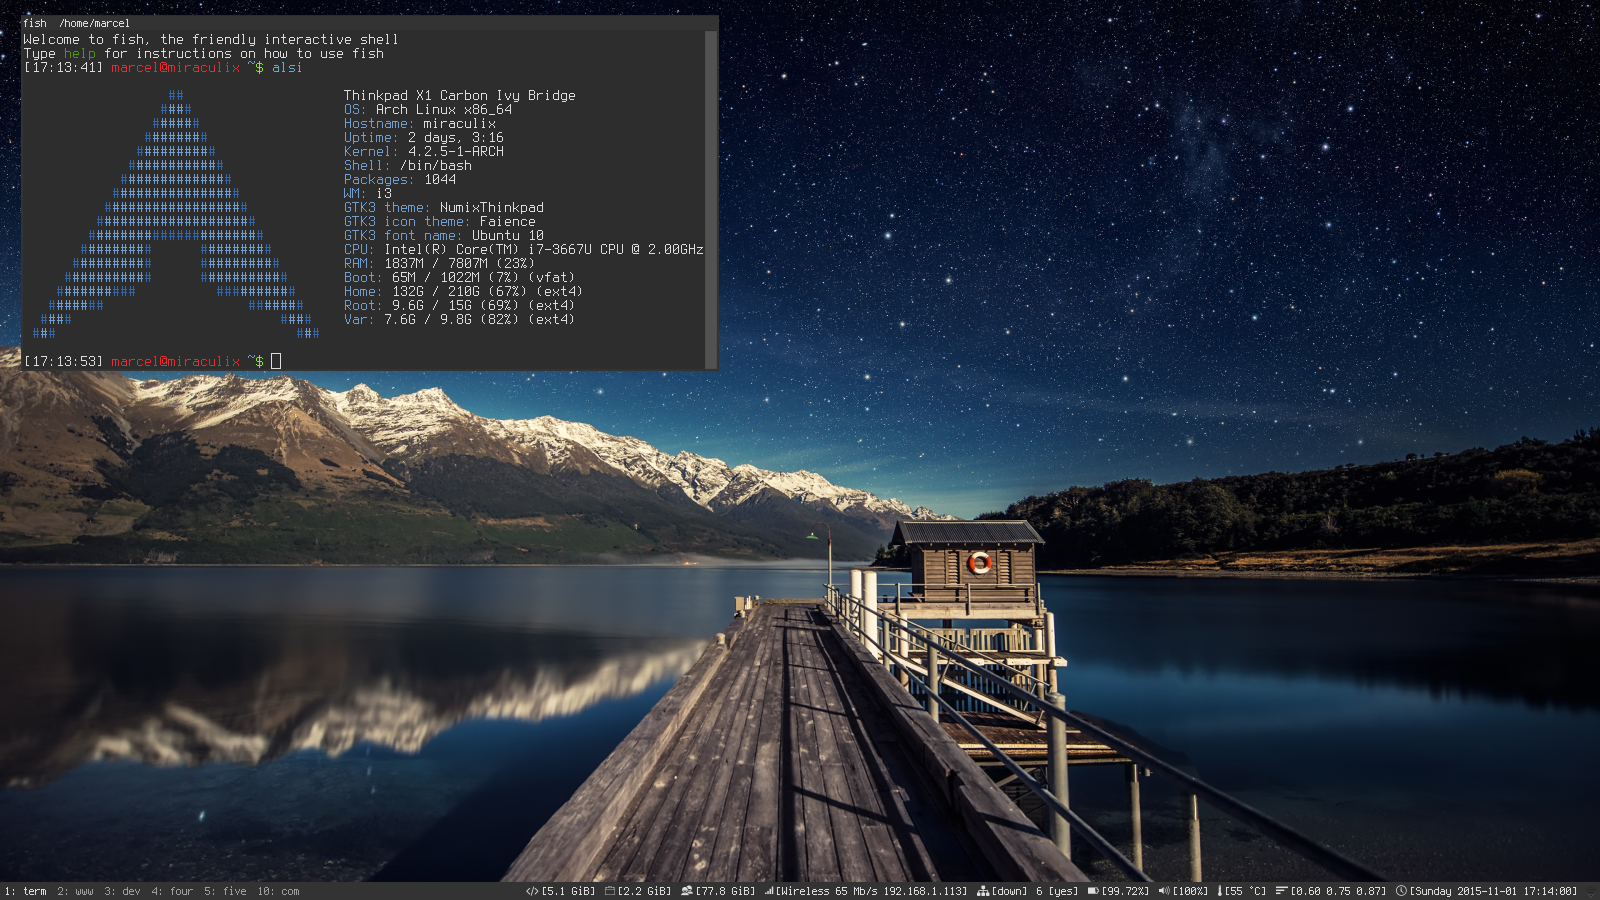
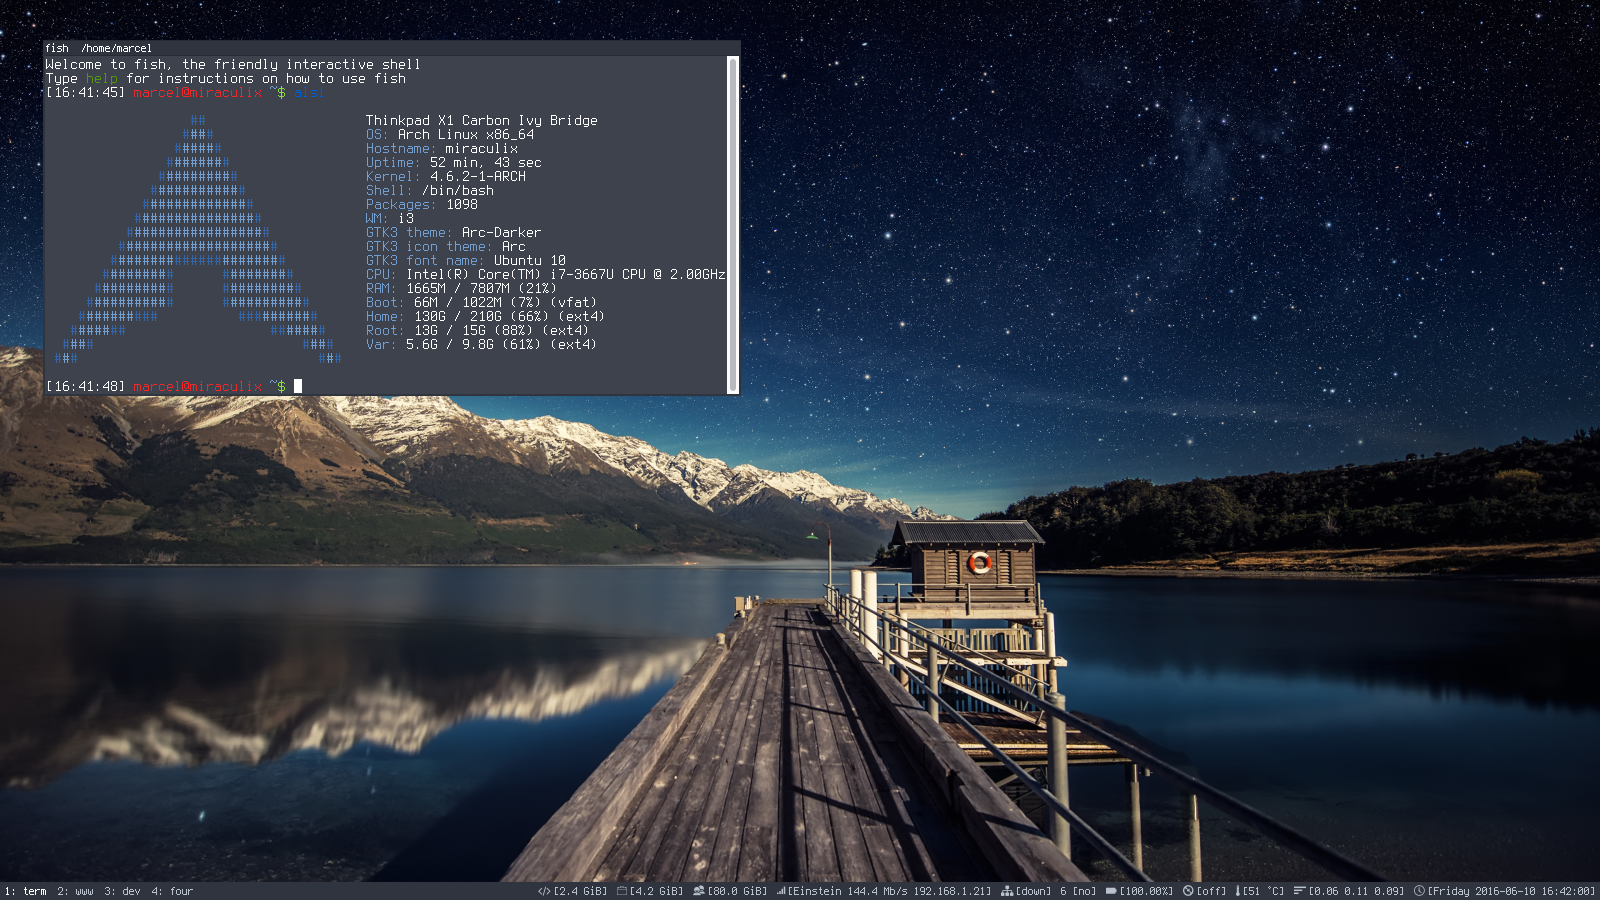
switched from Numix to Arc theme

Changed region(s): [[0.0, 0.0, 0.4688, 0.4667], [0.3438, 0.9644, 0.9375, 0.9956], [0.9688, 0.9644, 1.0, 0.9956]]

diff --git a/README.md b/README.md
@@ -3,6 +3,7 @@ dotfiles
 
 Arch Linux with i3 WM config
 running on a Thinkpad X1 Carbon
+Using Arc GTK3 Theme
 Optimized to my personal use, feel free to edit to
 suit your needs
 
@@ -91,12 +92,8 @@ Check out the .i3/config for more details.
 ##Screenshots
 ![i3 alsi](https://raw.github.com/mohlerm/dotfiles/master/img/i3_alsi.png)
 ![i3 terminal](https://raw.github.com/mohlerm/dotfiles/master/img/i3_terminal.png)
-![i3 nautilus](https://raw.github.com/mohlerm/dotfiles/master/img/i3_nautilus.png)
-![i3 chrome](https://raw.github.com/mohlerm/dotfiles/master/img/i3_chrome.png)
-![i3 sublime](https://raw.github.com/mohlerm/dotfiles/master/img/i3_sublime.png)
-![i3 monitor](https://raw.github.com/mohlerm/dotfiles/master/img/i3_monitor.png)
+![i3 ranger](https://raw.github.com/mohlerm/dotfiles/master/img/i3_ranger.png)
+![i3 atom](https://raw.github.com/mohlerm/dotfiles/master/img/i3_firefox.png)
+![i3 atom](https://raw.github.com/mohlerm/dotfiles/master/img/i3_atom.png)
+![i3 rofi](https://raw.github.com/mohlerm/dotfiles/master/img/i3_rofi.png)
 ![i3 lock](https://raw.github.com/mohlerm/dotfiles/master/img/i3lock_black.png)
-
-# Sublime Color Theme
-
-See https://github.com/mohlerm/sublime-color-scheme-numix-thinkpad
